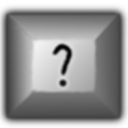
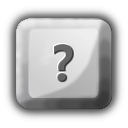
better obelisk/cities, better anchor and show controls buttons

diff --git a/scripts/tile.js b/scripts/tile.js
@@ -10,7 +10,7 @@ BSWG.tMask = {
     D: 8
 };
 
-BSWG.tile = function (image, imgX, imgY, tileMask, color, water) {
+BSWG.tile = function (image, imgX, imgY, tileMask, color, water, nmap, nmapScale, nmapAmp) {
 
     var self = this;
     this.heightMap = new Array(BSWG.tileSize * BSWG.tileSize);
@@ -253,7 +253,7 @@ BSWG.tile = function (image, imgX, imgY, tileMask, color, water) {
             },
             exMap: {
                 type: 't',
-                value: BSWG.render.images['grass_nm'].texture
+                value: nmap || BSWG.render.images['grass_nm'].texture
             },
             /*map: {
                 type: 't',
@@ -265,7 +265,7 @@ BSWG.tile = function (image, imgX, imgY, tileMask, color, water) {
             },
             extra: {
                 type: 'v4',
-                value: new THREE.Vector4(BSWG.render.time, 0., 0., 0.)
+                value: new THREE.Vector4(BSWG.render.time, 0., nmapAmp || 1.0, nmapScale || 1.0)
             },
             viewport: {
                 type: 'v2',
@@ -367,10 +367,10 @@ BSWG.tileMap = function (layers) {
     }
     for (var set in layers) {
         if (layers[set].decals) {
-            this.sets[set] = new BSWG.tileSet(layers[set].decals, layers[set].color, null);
+            this.sets[set] = new BSWG.tileSet(layers[set].decals, layers[set].color, null, layers[set].normalMap, layers[set].normalMapScale, layers[set].normalMapAmp);
         }
         else {
-            this.sets[set] = new BSWG.tileSet(set, layers[set].color, layers[set].level ? layers[set].level : null);
+            this.sets[set] = new BSWG.tileSet(set, layers[set].color, layers[set].level ? layers[set].level : null, layers[set].normalMap, layers[set].normalMapScale, layers[set].normalMapAmp);
         }
     }
 
@@ -641,7 +641,7 @@ BSWG.makeCityTiles = function (seed) {
         var W = BSWG.tileSize,
             H = BSWG.tileSize;
 
-        var l = ~~(0.35 * 255);
+        var l = ~~(0.0 * 255);
         ctx.fillStyle = 'rgba(' + l + ',' + l + ',' + l + ', 1.0)';
         ctx.fillRect(0, 0, w, h);
 
@@ -659,8 +659,8 @@ BSWG.makeCityTiles = function (seed) {
                 var sz = (~~(Math.random()*12) + 12) * 4;
                 var it = {
                     sz: sz,
-                    x: ~~(Math.cwRandom(12.0) * (W - sz - 4)) + sz/2 + 2,
-                    y: ~~(Math.cwRandom(12.0) * (H - sz - 4)) + sz/2 + 2,
+                    x: ~~(Math.cwRandom(16.0) * (W - sz - 4)) + sz/2 + 2,
+                    y: ~~(Math.cwRandom(16.0) * (H - sz - 4)) + sz/2 + 2,
                     h: Math.random() * (maxh - minh) + minh
                 };
                 var valid = true;
@@ -677,7 +677,7 @@ BSWG.makeCityTiles = function (seed) {
                     i --;
                     k++;
                     if (k>1000) {
-                        var l = ~~(0.35 * 255);
+                        var l = ~~(0.0 * 255);
                         ctx.fillStyle = 'rgba(' + l + ',' + l + ',' + l + ', 1.0)';
                         ctx.fillRect(x1, y1, W, H);
                         hist.length = 0;
@@ -690,10 +690,10 @@ BSWG.makeCityTiles = function (seed) {
                 var l = ~~(it.h * 255);
                 var sz = it.sz/2;
                 while (sz > 0) {
-                    ctx.fillStyle = 'rgba(' + l + ',' + l + ',' + l + ', 1.0)';
+                    var l2 = ~~(l * ((it.sz*0.5 - sz) / (it.sz*0.5) * 0.5 + 0.5));
+                    ctx.fillStyle = 'rgba(' + l2 + ',' + l2 + ',' + l2 + ', 1.0)';
                     ctx.fillRect(x1+it.x-sz, y1+it.y-sz, sz*2, sz*2);
                     sz -= 1;
-                    l += 1;
                 }
                 hist.push(it);
             }
@@ -710,7 +710,7 @@ BSWG.makeCityTiles = function (seed) {
 
 };
 
-BSWG.tileSet = function (imageName, color, waterLevel) {
+BSWG.tileSet = function (imageName, color, waterLevel, nmap, nmapScale, nmapAmp) {
 
     var image = (typeof imageName === 'string') ? BSWG.render.images[imageName] : imageName;
 
@@ -740,19 +740,19 @@ BSWG.tileSet = function (imageName, color, waterLevel) {
 
     this.tiles = [
         [
-            new BSWG.tile(this.image, BSWG.tileSize*0, BSWG.tileSize*0, BSWG.tMask.R | BSWG.tMask.D, color, !!waterLevel),
-            new BSWG.tile(this.image, BSWG.tileSize*1, BSWG.tileSize*0, BSWG.tMask.L | BSWG.tMask.R | BSWG.tMask.D, color, !!waterLevel),
-            new BSWG.tile(this.image, BSWG.tileSize*2, BSWG.tileSize*0, BSWG.tMask.L | BSWG.tMask.D, color, !!waterLevel)
+            new BSWG.tile(this.image, BSWG.tileSize*0, BSWG.tileSize*0, BSWG.tMask.R | BSWG.tMask.D, color, !!waterLevel, nmap, nmapScale, nmapAmp),
+            new BSWG.tile(this.image, BSWG.tileSize*1, BSWG.tileSize*0, BSWG.tMask.L | BSWG.tMask.R | BSWG.tMask.D, color, !!waterLevel, nmap, nmapScale, nmapAmp),
+            new BSWG.tile(this.image, BSWG.tileSize*2, BSWG.tileSize*0, BSWG.tMask.L | BSWG.tMask.D, color, !!waterLevel, nmap, nmapScale, nmapAmp)
         ],
         [
-            new BSWG.tile(this.image, BSWG.tileSize*0, BSWG.tileSize*1, BSWG.tMask.R | BSWG.tMask.D | BSWG.tMask.U, color, !!waterLevel),
-            new BSWG.tile(this.image, BSWG.tileSize*1, BSWG.tileSize*1, BSWG.tMask.L | BSWG.tMask.R | BSWG.tMask.D | BSWG.tMask.U, color, !!waterLevel),
-            new BSWG.tile(this.image, BSWG.tileSize*2, BSWG.tileSize*1, BSWG.tMask.L | BSWG.tMask.D | BSWG.tMask.U, color, !!waterLevel)
+            new BSWG.tile(this.image, BSWG.tileSize*0, BSWG.tileSize*1, BSWG.tMask.R | BSWG.tMask.D | BSWG.tMask.U, color, !!waterLevel, nmap, nmapScale, nmapAmp),
+            new BSWG.tile(this.image, BSWG.tileSize*1, BSWG.tileSize*1, BSWG.tMask.L | BSWG.tMask.R | BSWG.tMask.D | BSWG.tMask.U, color, !!waterLevel, nmap, nmapScale, nmapAmp),
+            new BSWG.tile(this.image, BSWG.tileSize*2, BSWG.tileSize*1, BSWG.tMask.L | BSWG.tMask.D | BSWG.tMask.U, color, !!waterLevel, nmap, nmapScale, nmapAmp)
         ],
         [
-            new BSWG.tile(this.image, BSWG.tileSize*0, BSWG.tileSize*2, BSWG.tMask.R | BSWG.tMask.U, color, !!waterLevel),
-            new BSWG.tile(this.image, BSWG.tileSize*1, BSWG.tileSize*2, BSWG.tMask.L | BSWG.tMask.R | BSWG.tMask.U, color, !!waterLevel),
-            new BSWG.tile(this.image, BSWG.tileSize*2, BSWG.tileSize*2, BSWG.tMask.L | BSWG.tMask.U, color, !!waterLevel)
+            new BSWG.tile(this.image, BSWG.tileSize*0, BSWG.tileSize*2, BSWG.tMask.R | BSWG.tMask.U, color, !!waterLevel, nmap, nmapScale, nmapAmp),
+            new BSWG.tile(this.image, BSWG.tileSize*1, BSWG.tileSize*2, BSWG.tMask.L | BSWG.tMask.R | BSWG.tMask.U, color, !!waterLevel, nmap, nmapScale, nmapAmp),
+            new BSWG.tile(this.image, BSWG.tileSize*2, BSWG.tileSize*2, BSWG.tMask.L | BSWG.tMask.U, color, !!waterLevel, nmap, nmapScale, nmapAmp)
         ]
     ];
 

diff --git a/scripts/game.js b/scripts/game.js
@@ -540,6 +540,22 @@ BSWG.game = new function(){
                         },
                         color: [0.75*2, 0.75*2, 1*2]
                     },
+                    'city-tiles': {
+                        decals: BSWG.makeCityTiles(1),
+                        normalMap: BSWG.render.images['test_nm'].texture,
+                        normalMapScale: 24.0,
+                        normalMapAmp: 5.0,
+                        map: function(x, y) {
+                            if (!BSWG.mapPerlinSparse(x+100,y+414) &&
+                                BSWG.mapPerlinSparse(x-100,y-414)) {
+                                return ~~(Math.random2d(x, y) * 9) + 1;
+                            }
+                            else {
+                                return 0;
+                            }
+                        },
+                        color: [0.5, 0.5, 0.5]
+                    },
                     'tileset-land': {
                         map: BSWG.mapPerlin,
                         color: [0.2, 0.5, 1.0]
@@ -829,7 +845,7 @@ BSWG.game = new function(){
                                 color: [1.0, 1.0, 1.0]
                             },
                             'tileset-land': {
-                                map: function(x,y) { return (Math.abs(x) > 0 || Math.abs(y) > 0) && BSWG.mapPerlin(x,y); },
+                                map: function(x,y) { return (Math.abs(x) > 1 || Math.abs(y) > 1) && BSWG.mapPerlin(x,y); },
                                 color: [0.4, 0.75, 0.2]
                             },
                             'tileset-below': {
@@ -843,15 +859,18 @@ BSWG.game = new function(){
                             },
                             'city-tiles': {
                                 decals: BSWG.makeCityTiles(1),
+                                normalMap: BSWG.render.images['test_nm'].texture,
+                                normalMapScale: 24.0,
+                                normalMapAmp: 5.0,
                                 map: function(x, y) {
                                     if (!x && !y) {
-                                        return 6;
+                                        return 9;
                                     }
                                     else {
                                         return 0;
                                     }
                                 },
-                                color: [1.5, 1.5, 1.5]
+                                color: [0.5, 0.5, 0.5]
                             },
                             'water': {
                                 map: function(x,y) {
